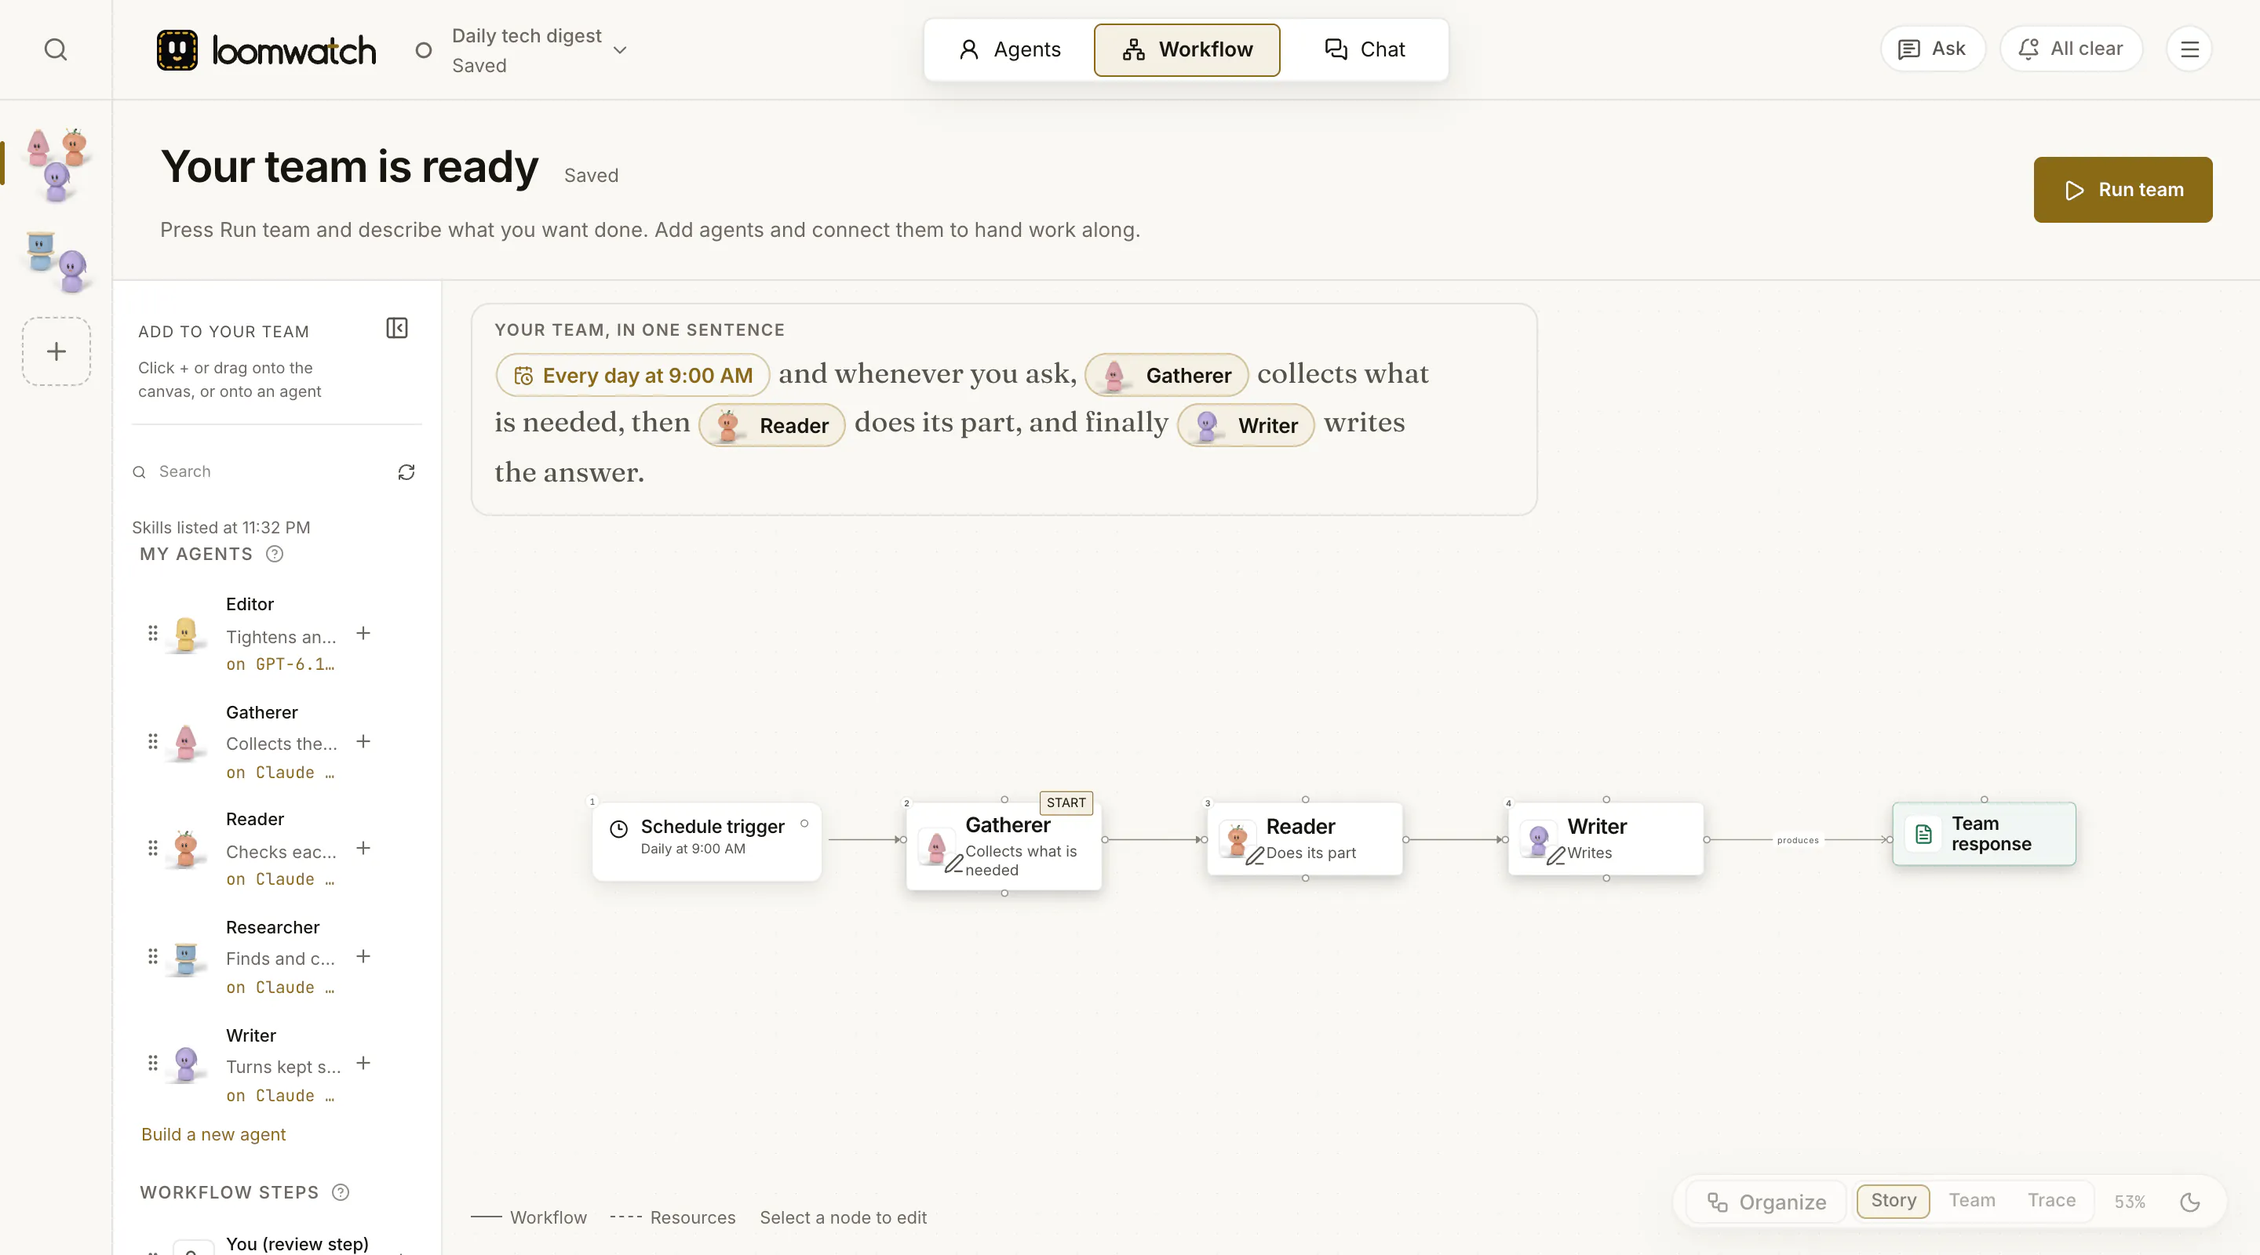
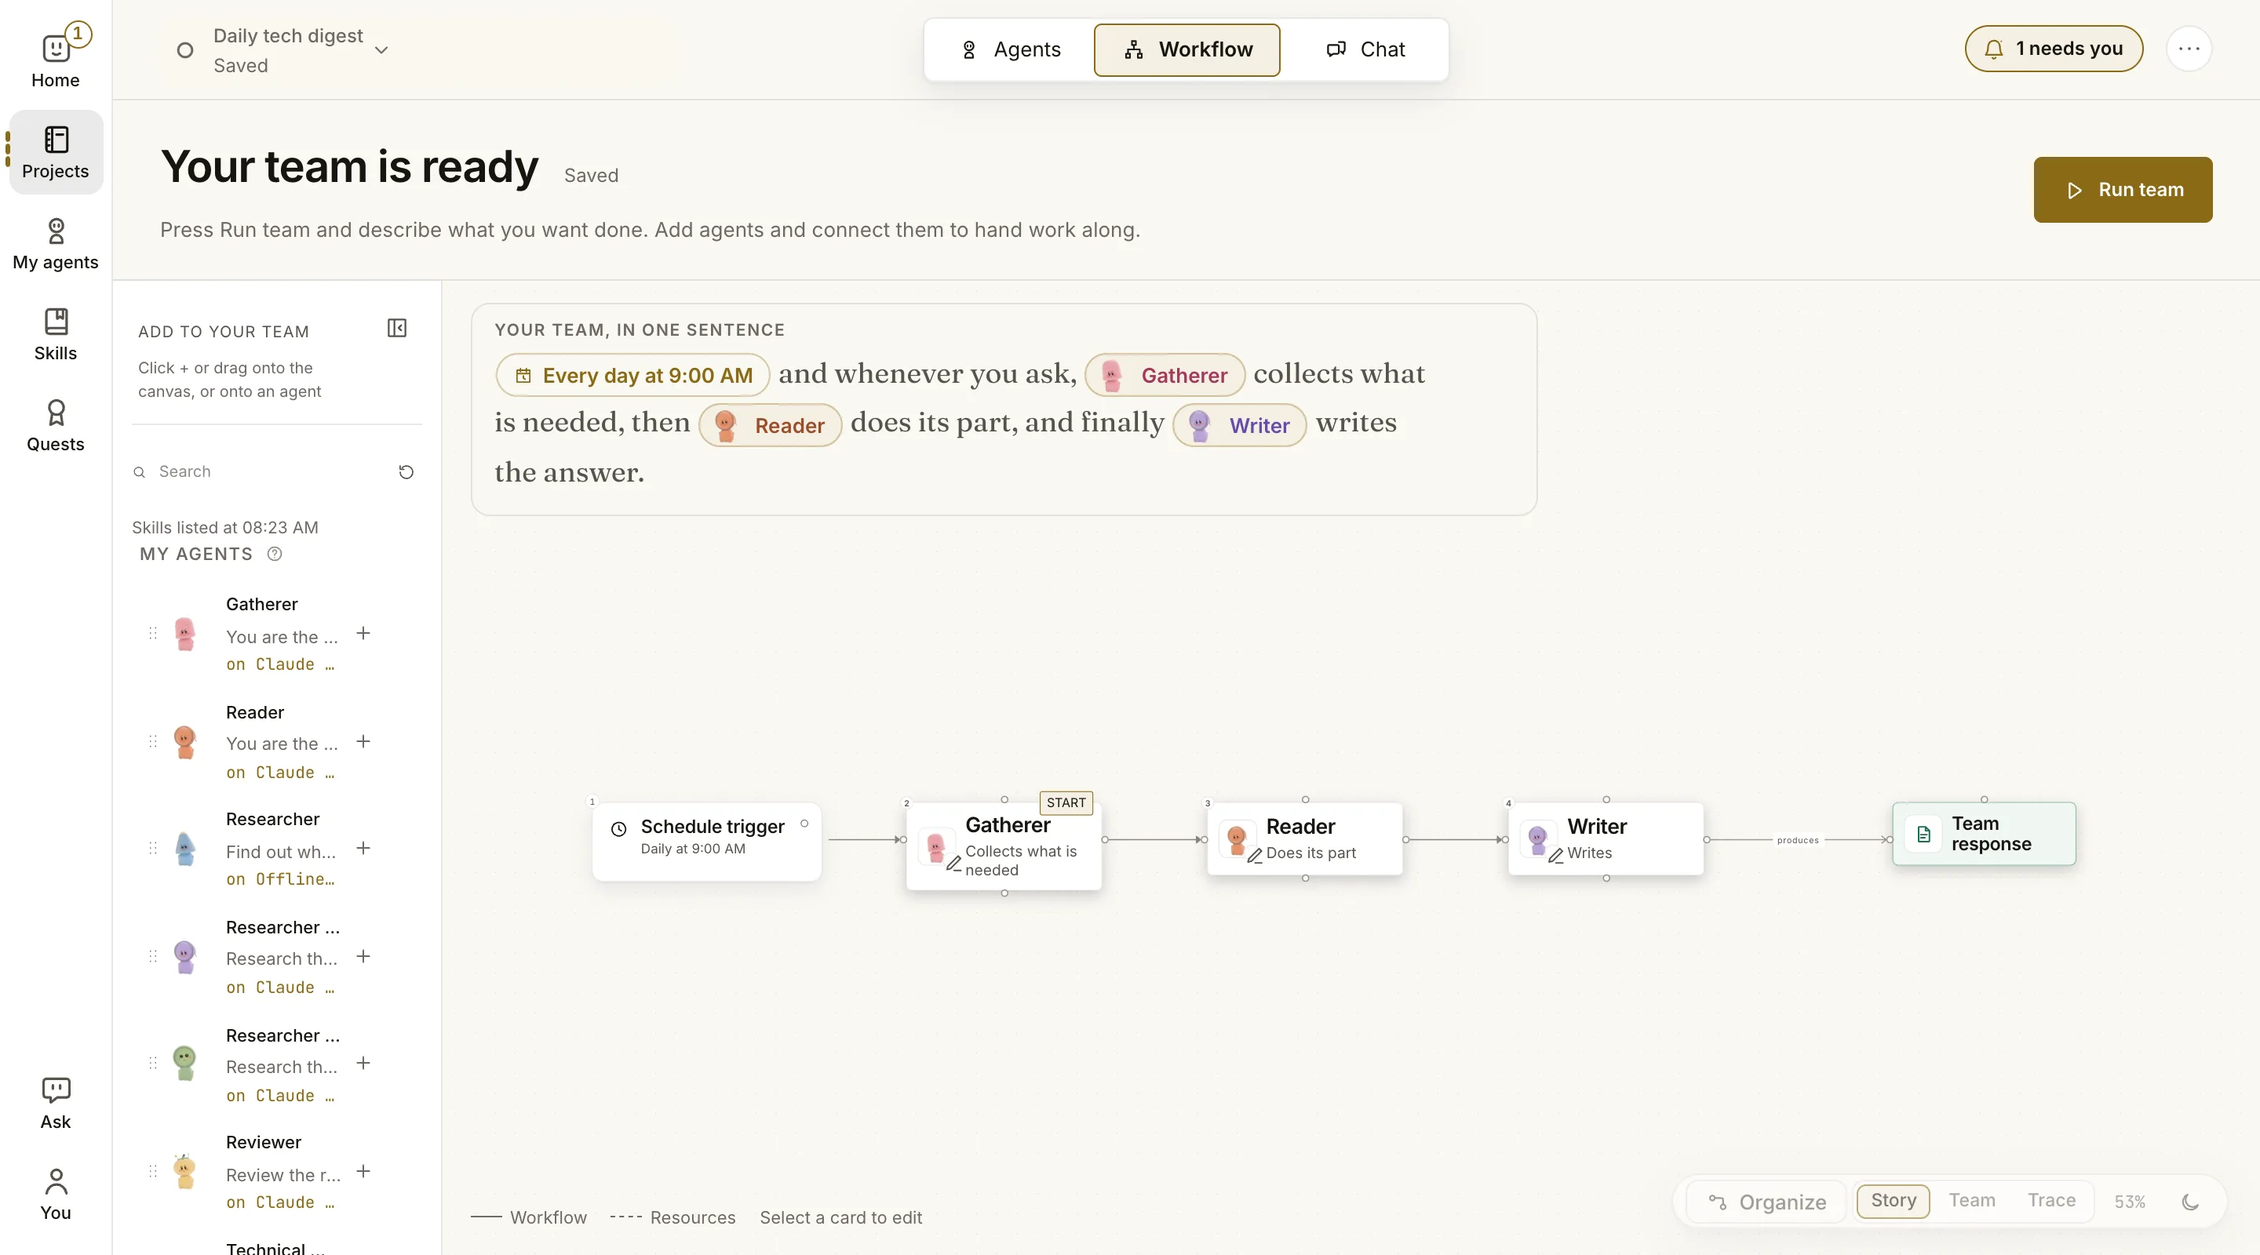
docs(readme): the README and site guides show the app as it is now: the dock down the side, Home's desk and one-press Approve
The eight app pictures (Home, an agent, a team's Workflow and its Chat,
dark and light) still showed each screen's old header: the brand, the
Skills and Quests pills, the Ask button and the ☰ menu. Retaken from a
fresh trial (the example teams, one offline demo run, nothing spent) at
1440 × 800, 2×, with descriptions that say what each now shows. The
landing page is untouched.

diff --git a/site/ai-agent-team/index.html b/site/ai-agent-team/index.html
@@ -97,8 +97,8 @@
       <li>When it does the job well, click <strong>Save to My agents</strong>.</li>
     </ol>
     <figure class="shot">
-      <img class="dark" src="../assets/app/agents-dark.webp" width="2880" height="1600" alt="Building an agent called Writer. On the left, its figure sits at a desk with a label on each part: The job, its instructions pinned up; Skills · 1, a note for its house style; Thinks with Claude Opus 5.5; Allowed · nothing; Asks you first · Web, Edit files, Commands; Hands back · said in its instructions; Reads · nothing yet; Tools · none yet. Above it, one sentence: Writer thinks with Claude Opus 5.5, has 1 skill, and reads nothing yet. It asks you before it searches the web, edits files or runs commands. On the right, the same settings in blocks, starting with Name, What it does and Instructions." loading="lazy" decoding="async">
-      <img class="light" src="../assets/app/agents-light.webp" width="2880" height="1600" alt="Building an agent called Writer. On the left, its figure sits at a desk with a label on each part: The job, its instructions pinned up; Skills · 1, a note for its house style; Thinks with Claude Opus 5.5; Allowed · nothing; Asks you first · Web, Edit files, Commands; Hands back · said in its instructions; Reads · nothing yet; Tools · none yet. Above it, one sentence: Writer thinks with Claude Opus 5.5, has 1 skill, and reads nothing yet. It asks you before it searches the web, edits files or runs commands. On the right, the same settings in blocks, starting with Name, What it does and Instructions." loading="lazy" decoding="async">
+      <img class="dark" src="../assets/app/agents-dark.webp" width="2880" height="1600" alt="Building an agent called Writer. Down the left, LoomWatch's dock: Home with a count of 1, Projects, My agents marked, Skills, Quests, then Ask and You. Along the top, the name Writer, saved a minute ago, the Build and Chat tabs, and the bell saying 1 needs you. Under the top bar, one sentence sums the agent up: Writer thinks with Claude Sonnet 5.5, has no skills yet, and reads nothing yet. It asks you before it searches the web, edits files or runs commands. Below it, Writer's figure sits at a desk, with a label on each part: The job, its instructions pinned up; Skills · none yet; Thinks with Claude Sonnet 5.5; Allowed · nothing; Asks you first · Web, Edit files, Commands; Hands back · said in its instructions; Reads · nothing yet; Tools · none yet. On the right, the same settings in blocks, starting with Name, Instructions and Model." loading="lazy" decoding="async">
+      <img class="light" src="../assets/app/agents-light.webp" width="2880" height="1600" alt="Building an agent called Writer. Down the left, LoomWatch's dock: Home with a count of 1, Projects, My agents marked, Skills, Quests, then Ask and You. Along the top, the name Writer, saved a minute ago, the Build and Chat tabs, and the bell saying 1 needs you. Under the top bar, one sentence sums the agent up: Writer thinks with Claude Sonnet 5.5, has no skills yet, and reads nothing yet. It asks you before it searches the web, edits files or runs commands. Below it, Writer's figure sits at a desk, with a label on each part: The job, its instructions pinned up; Skills · none yet; Thinks with Claude Sonnet 5.5; Allowed · nothing; Asks you first · Web, Edit files, Commands; Hands back · said in its instructions; Reads · nothing yet; Tools · none yet. On the right, the same settings in blocks, starting with Name, Instructions and Model." loading="lazy" decoding="async">
       <figcaption>Building an agent: its job, its model, its skills and what it may do without asking, on its desk and as plain settings.</figcaption>
     </figure>
     <p>You build each agent once and use it in any team. It is the same agent in every team it's in: change its job later and every team uses the change from its next run, and what it learns from your feedback goes with it.</p>
@@ -125,8 +125,8 @@
     <p>Open the team's <strong>Workflow</strong> tab. Add more agents from <strong>My agents</strong> in the panel on the left. To make a new one, click <strong>Build a new agent</strong>: you build and try it on its own first, starting from a job such as Researcher or Writer, then add it to the team. Drag from the dot on one card's right edge to the next card, so they work in that order. Under <strong>Workflow steps</strong>, add <strong>You (review step)</strong> wherever you want to <a href="../review-every-step/">check the work</a> before it goes on.</p>
     <p>LoomWatch reads your team back to you as one plain sentence, such as <em>"Every day at 9:00 AM and whenever you ask, Gatherer collects what is needed, then Reader does its part, and finally Writer writes the answer."</em> If the sentence sounds right, so is the plan.</p>
     <figure class="shot">
-      <img class="dark" src="../assets/app/workflow-dark.webp" width="2880" height="1600" alt="A team's Workflow tab: a daily schedule feeds Gatherer, then Reader, then Writer, which produces the team's answer. Above them the team is read back as one sentence, with each agent's figure. On the left, a panel lists My agents, then Workflow steps with You (review step)." loading="lazy" decoding="async">
-      <img class="light" src="../assets/app/workflow-light.webp" width="2880" height="1600" alt="A team's Workflow tab: a daily schedule feeds Gatherer, then Reader, then Writer, which produces the team's answer. Above them the team is read back as one sentence, with each agent's figure. On the left, a panel lists My agents, then Workflow steps with You (review step)." loading="lazy" decoding="async">
+      <img class="dark" src="../assets/app/workflow-dark.webp" width="2880" height="1600" alt="A team's Workflow tab, beside LoomWatch's dock with Projects marked. A daily schedule feeds Gatherer, then Reader, then Writer, which produces the team response. At the top of the canvas the team is read back as one sentence, with each agent's figure: every day at 9:00 AM and whenever you ask, Gatherer collects what is needed, then Reader does its part, and finally Writer writes the answer. Beside it, the Add to your team panel lists My agents with the models they think with. The heading says Your team is ready, beside Run team. Along the top, the team's name, saved, the Agents, Workflow and Chat tabs, the bell and the ⋯." loading="lazy" decoding="async">
+      <img class="light" src="../assets/app/workflow-light.webp" width="2880" height="1600" alt="A team's Workflow tab, beside LoomWatch's dock with Projects marked. A daily schedule feeds Gatherer, then Reader, then Writer, which produces the team response. At the top of the canvas the team is read back as one sentence, with each agent's figure: every day at 9:00 AM and whenever you ask, Gatherer collects what is needed, then Reader does its part, and finally Writer writes the answer. Beside it, the Add to your team panel lists My agents with the models they think with. The heading says Your team is ready, beside Run team. Along the top, the team's name, saved, the Agents, Workflow and Chat tabs, the bell and the ⋯." loading="lazy" decoding="async">
       <figcaption>Workflow: your agents connected in order, and the whole team read back as one sentence.</figcaption>
     </figure>
   </section>

diff --git a/site/review-every-step/index.html b/site/review-every-step/index.html
@@ -87,8 +87,8 @@
       <li><strong>Send back</strong>: write what should change in the box at the bottom, then click <strong>Send back</strong> or press Enter. The agent revises it and asks you again.</li>
     </ul>
     <figure class="shot">
-      <img class="dark" src="../assets/app/chat-dark.webp" width="2880" height="1600" alt="A team's Chat tab: the request @team Prepare a short getting-started guide for new users; under it, Waiting for you: Researcher's work is ready for your review, with Details, Stop and Researcher's figure with 1 reply on the right. Below, in the chat, Researcher's handover to you, then Approve and Send back to Researcher, and the message box ready for your review note." loading="lazy" decoding="async">
-      <img class="light" src="../assets/app/chat-light.webp" width="2880" height="1600" alt="A team's Chat tab: the request @team Prepare a short getting-started guide for new users; under it, Waiting for you: Researcher's work is ready for your review, with Details, Stop and Researcher's figure with 1 reply on the right. Below, in the chat, Researcher's handover to you, then Approve and Send back to Researcher, and the message box ready for your review note." loading="lazy" decoding="async">
+      <img class="dark" src="../assets/app/chat-dark.webp" width="2880" height="1600" alt="A team's Chat tab, beside LoomWatch's dock with Projects marked: the request Prepare a short getting-started guide for new users; under it, Waiting for you: Researcher's work is ready for your review, with Details, Stop and Researcher's figure with 1 reply on the right. Below, in the chat, Researcher's handover to you, then Approve and Send back to Researcher, and the box ready for your review note." loading="lazy" decoding="async">
+      <img class="light" src="../assets/app/chat-light.webp" width="2880" height="1600" alt="A team's Chat tab, beside LoomWatch's dock with Projects marked: the request Prepare a short getting-started guide for new users; under it, Waiting for you: Researcher's work is ready for your review, with Details, Stop and Researcher's figure with 1 reply on the right. Below, in the chat, Researcher's handover to you, then Approve and Send back to Researcher, and the box ready for your review note." loading="lazy" decoding="async">
       <figcaption>The handover waits in the chat, with Approve and Send back under it. Details, on the line under your message, shows how the work was made.</figcaption>
     </figure>
     <p>Nothing moves on until you decide. LoomWatch's own helper, Ask, can draft a note for you, but only you click <strong>Approve</strong> or <strong>Send back</strong>.</p>

diff --git a/README.md b/README.md
@@ -63,7 +63,7 @@ and asks.
 <td width="50%" valign="middle">
 <picture>
   <source media="(prefers-color-scheme: dark)" srcset="site/assets/app/agents-dark.webp">
-  <img src="site/assets/app/agents-light.webp" alt="Building an agent called Writer. Along the top, the name Writer, marked as saved, the Build and Chat tabs, and the bell saying All clear. Down the left edge, a column of My agents' figures, with Writer's marked; pick one to open it. Under the top bar, one sentence sums the agent up: Writer thinks with Claude Opus 5.5, has 1 skill, and reads nothing yet. It asks you before it searches the web, edits files or runs commands. Below it, Writer's figure sits at a desk, with a label on each part: The job, its instructions pinned up; Skills · 1, a note for its house style; Thinks with Claude Opus 5.5; Allowed · nothing; Asks you first · Web, Edit files, Commands; Hands back · said in its instructions; Reads · nothing yet; Tools · none yet. On the right, the same settings in blocks, starting with Name, What it does and Instructions.">
+  <img src="site/assets/app/agents-light.webp" alt="Building an agent called Writer. Down the left, LoomWatch's dock: Home with a count of 1, Projects, My agents marked, Skills, Quests, then Ask and You. Along the top, the name Writer, saved a minute ago, the Build and Chat tabs, and the bell saying 1 needs you. Under the top bar, one sentence sums the agent up: Writer thinks with Claude Sonnet 5.5, has no skills yet, and reads nothing yet. It asks you before it searches the web, edits files or runs commands. Below it, Writer's figure sits at a desk, with a label on each part: The job, its instructions pinned up; Skills · none yet; Thinks with Claude Sonnet 5.5; Allowed · nothing; Asks you first · Web, Edit files, Commands; Hands back · said in its instructions; Reads · nothing yet; Tools · none yet. On the right, the same settings in blocks, starting with Name, Instructions and Model.">
 </picture>
 </td>
 <td width="50%" valign="middle">
@@ -379,7 +379,7 @@ add, connect and rename agents to match. To run a team on a schedule, ask
 <td align="center">
 <picture>
   <source media="(prefers-color-scheme: dark)" srcset="site/assets/app/home-dark.webp">
-  <img src="site/assets/app/home-light.webp" alt="Home: first Your desk, where Researcher brought work for you to check, with the Review and Chat with one agent buttons. Under Projects, a room for each project with its team's agents at their desks: in SUTD final project, Researcher is drawn faint because it is at your desk, then the gold ring where you check; in Bakery website, Writer is working; and in My thesis, Writer is drawn faint because it is working in the Website team. Then a New project tile, and an agent in no project yet. At the top right are search, Skills, Quests, Ask, the bell saying 1 needs you, and the menu.">
+  <img src="site/assets/app/home-light.webp" alt="Home. Down the left, LoomWatch's dock: Home, marked, with a count of 1, then Projects, My agents, Skills, Quests, Ask and You. At the top, the box to give work: To Daily tech digest, What should Daily tech digest do?, a clip to add files and the send arrow. Under it, Needs you · 1 across the row: Researcher's figure, drawn big, brought work for you to check in Review stop demo, with a page icon to read it first and Approve. Then Working now (nobody is working, 8 ready, their figures), Finished today and This month. Under Projects, a room for each project with its team's agents: Review stop demo, where Researcher is waiting for you; Daily tech digest, which runs every day at 9:00 AM; and Research and review, ready. At the top right, the bell saying 1 needs you, and search.">
 </picture>
 <br><sub><strong>Home.</strong> Your desk first, with whoever waits for you, then a room for each project, with its agents at their desks.</sub>
 </td>
@@ -388,7 +388,7 @@ add, connect and rename agents to match. To run a team on a schedule, ask
 <td align="center">
 <picture>
   <source media="(prefers-color-scheme: dark)" srcset="site/assets/app/workflow-dark.webp">
-  <img src="site/assets/app/workflow-light.webp" alt="A team's Workflow tab: a daily schedule feeds Gatherer, then Reader, then Writer, which produces the team response. At the top of the canvas the team is read back as one sentence, with each agent's figure. Down the left edge, a column shows each of your teams by its agents' figures, with this one marked; pick one to switch. Beside it, the Add to your team panel lists My agents with the models they think with, the Build a new agent link, then Workflow steps with You (review step). The heading says Your team is ready, beside Run team.">
+  <img src="site/assets/app/workflow-light.webp" alt="A team's Workflow tab, beside LoomWatch's dock with Projects marked. A daily schedule feeds Gatherer, then Reader, then Writer, which produces the team response. At the top of the canvas the team is read back as one sentence, with each agent's figure: every day at 9:00 AM and whenever you ask, Gatherer collects what is needed, then Reader does its part, and finally Writer writes the answer. Beside it, the Add to your team panel lists My agents with the models they think with. The heading says Your team is ready, beside Run team. Along the top, the team's name, saved, the Agents, Workflow and Chat tabs, the bell and the ⋯.">
 </picture>
 <br><sub><strong>Workflow.</strong> Your agents on the canvas, connected in order and read back as one sentence.</sub>
 </td>
@@ -397,7 +397,7 @@ add, connect and rename agents to match. To run a team on a schedule, ask
 <td align="center">
 <picture>
   <source media="(prefers-color-scheme: dark)" srcset="site/assets/app/chat-dark.webp">
-  <img src="site/assets/app/chat-light.webp" alt="A team's Chat tab: the request @team Prepare a short getting-started guide for new users; under it, Waiting for you: Researcher's work is ready for your review, with Details, Stop and Researcher's figure with 1 reply on the right. Below, in the chat, Researcher's handover to you, then Approve and Send back to Researcher, and the message box ready for your review note.">
+  <img src="site/assets/app/chat-light.webp" alt="A team's Chat tab, beside LoomWatch's dock with Projects marked: the request Prepare a short getting-started guide for new users; under it, Waiting for you: Researcher's work is ready for your review, with Details, Stop and Researcher's figure with 1 reply on the right. Below, in the chat, Researcher's handover to you, then Approve and Send back to Researcher, and the box ready for your review note.">
 </picture>
 <br><sub><strong>Chat.</strong> Your review waits in the chat, under what the agents said, and Details opens every step beside the chat.</sub>
 </td>
